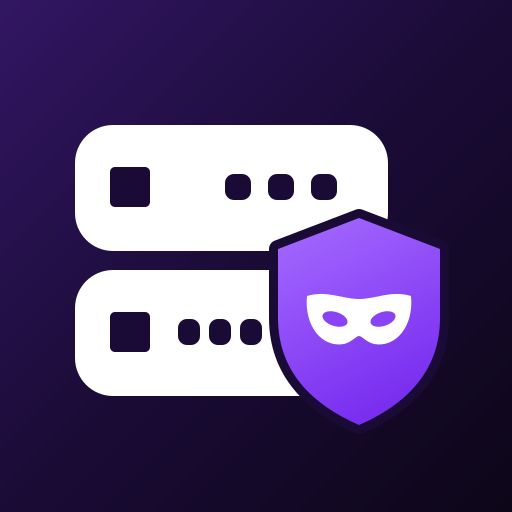
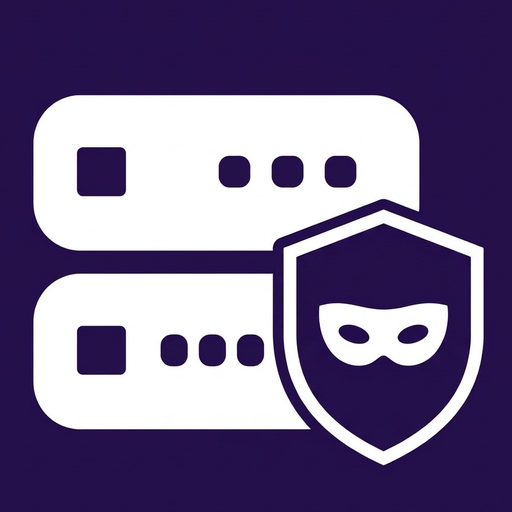
a

diff --git a/src/client/java/tenkayro/ipmask/client/EyeToggleButton.java b/src/client/java/tenkayro/ipmask/client/EyeToggleButton.java
@@ -18,7 +18,7 @@ public final class EyeToggleButton extends Button {
 	private final Runnable toggle;
 
 	public EyeToggleButton(int x, int y, BooleanSupplier shown, Runnable toggle) {
-		super(x, y, 24, 24, Component.translatable("ipmask.show"), button -> {
+		super(x, y, 20, 20, Component.translatable("ipmask.show"), button -> {
 			EyeToggleButton eyeButton = (EyeToggleButton)button;
 			eyeButton.toggle.run();
 			eyeButton.refreshState();
@@ -41,7 +41,7 @@ public final class EyeToggleButton extends Button {
 		Identifier sprite = isShown ? OPEN_SPRITE : HIDDEN_SPRITE;
 		Identifier texture = isShown ? OPEN_TEXTURE : HIDDEN_TEXTURE;
 		if (Minecraft.getInstance().getResourceManager().getResource(texture).isPresent()) {
-			graphics.blitSprite(RenderPipelines.GUI_TEXTURED, sprite, this.getX() + 2, this.getY() + 2, 20, 20);
+			graphics.blitSprite(RenderPipelines.GUI_TEXTURED, sprite, this.getX() + 2, this.getY() + 2, 16, 16);
 			return;
 		}
 

diff --git a/src/client/java/tenkayro/ipmask/mixin/DirectJoinServerScreenMixin.java b/src/client/java/tenkayro/ipmask/mixin/DirectJoinServerScreenMixin.java
@@ -21,7 +21,7 @@ public abstract class DirectJoinServerScreenMixin {
 
 	@Inject(method = "init", at = @At("TAIL"))
 	private void ipmask$addAddressToggle(CallbackInfo ci) {
-		this.ipEdit.setWidth(172);
+		this.ipEdit.setWidth(176);
 		((AddressMaskable)this.ipEdit).ipmask$setHidden(!this.ipmask$visible);
 		((ScreenInvoker)this).ipmask$addRenderableWidget(new EyeToggleButton(this.ipEdit.getX() + 176, this.ipEdit.getY(), () -> this.ipmask$visible, () -> {
 			this.ipmask$visible = !this.ipmask$visible;

diff --git a/src/client/java/tenkayro/ipmask/mixin/ManageServerScreenMixin.java b/src/client/java/tenkayro/ipmask/mixin/ManageServerScreenMixin.java
@@ -21,7 +21,7 @@ public abstract class ManageServerScreenMixin {
 
 	@Inject(method = "init", at = @At("TAIL"))
 	private void ipmask$addAddressToggle(CallbackInfo ci) {
-		this.ipEdit.setWidth(172);
+		this.ipEdit.setWidth(176);
 		((AddressMaskable)this.ipEdit).ipmask$setHidden(!this.ipmask$visible);
 		((ScreenInvoker)this).ipmask$addRenderableWidget(new EyeToggleButton(this.ipEdit.getX() + 176, this.ipEdit.getY(), () -> this.ipmask$visible, () -> {
 			this.ipmask$visible = !this.ipmask$visible;

diff --git a/README.md b/README.md
@@ -11,7 +11,7 @@ The mod is client-side only. It never rewrites server entries or changes pinging
 **Author:** Tenkayro  
 **Java package:** `tenkayro.ipmask`
 
-The focusable 24×24 eye controls use custom high-contrast open-eye and crossed-eye sprites.
+The focusable 20×20 eye controls match the address field height and use simple monochrome open-eye and crossed-eye sprites based on the supplied Font Awesome Free 7.3.1 SVGs. The source SVGs, including their attribution, are preserved in `branding/`.
 
 ## Supported version and toolchain
 
@@ -42,12 +42,13 @@ The same tasks are available through npm on Windows:
 
 ```shell
 npm run start
+npm run start:modmenu
 npm run build
 npm test
 npm run clean
 ```
 
-`npm run start` always starts the development client with Mod Menu. These scripts use the checked-in Gradle wrapper; install Node.js/npm and Java 25 first.
+`npm run start` launches the development client without Mod Menu. Use `npm run start:modmenu` when you want to test the optional Mod Menu integration. These scripts use the checked-in Gradle wrapper; install Node.js/npm and Java 25 first.
 
 To launch the development client with Mod Menu for optional integration checks:
 
@@ -86,7 +87,7 @@ The author confirmed the interactive checklist in the Minecraft client. The eye 
 
 ## Logo and project links
 
-The original logo source is preserved in `branding/`. The 512×512 Modrinth-ready icon is `icon-512.png`; the Fabric and Mod Menu icon is `src/main/resources/assets/ipmask/icon.png`.
+The supplied `IPMaskIcon.jpg` source is preserved in `branding/`. Optimized Lanczos-resized versions are used for the README header, the Fabric and Mod Menu icons, and the 512×512 Modrinth-ready `icon-512.png`.
 
 Project links in `fabric.mod.json`: `https://modrinth.com/mod/ipmask`, `https://github.com/Tenkayro/IPMask`, and `https://github.com/Tenkayro/IPMask/issues`.
 
